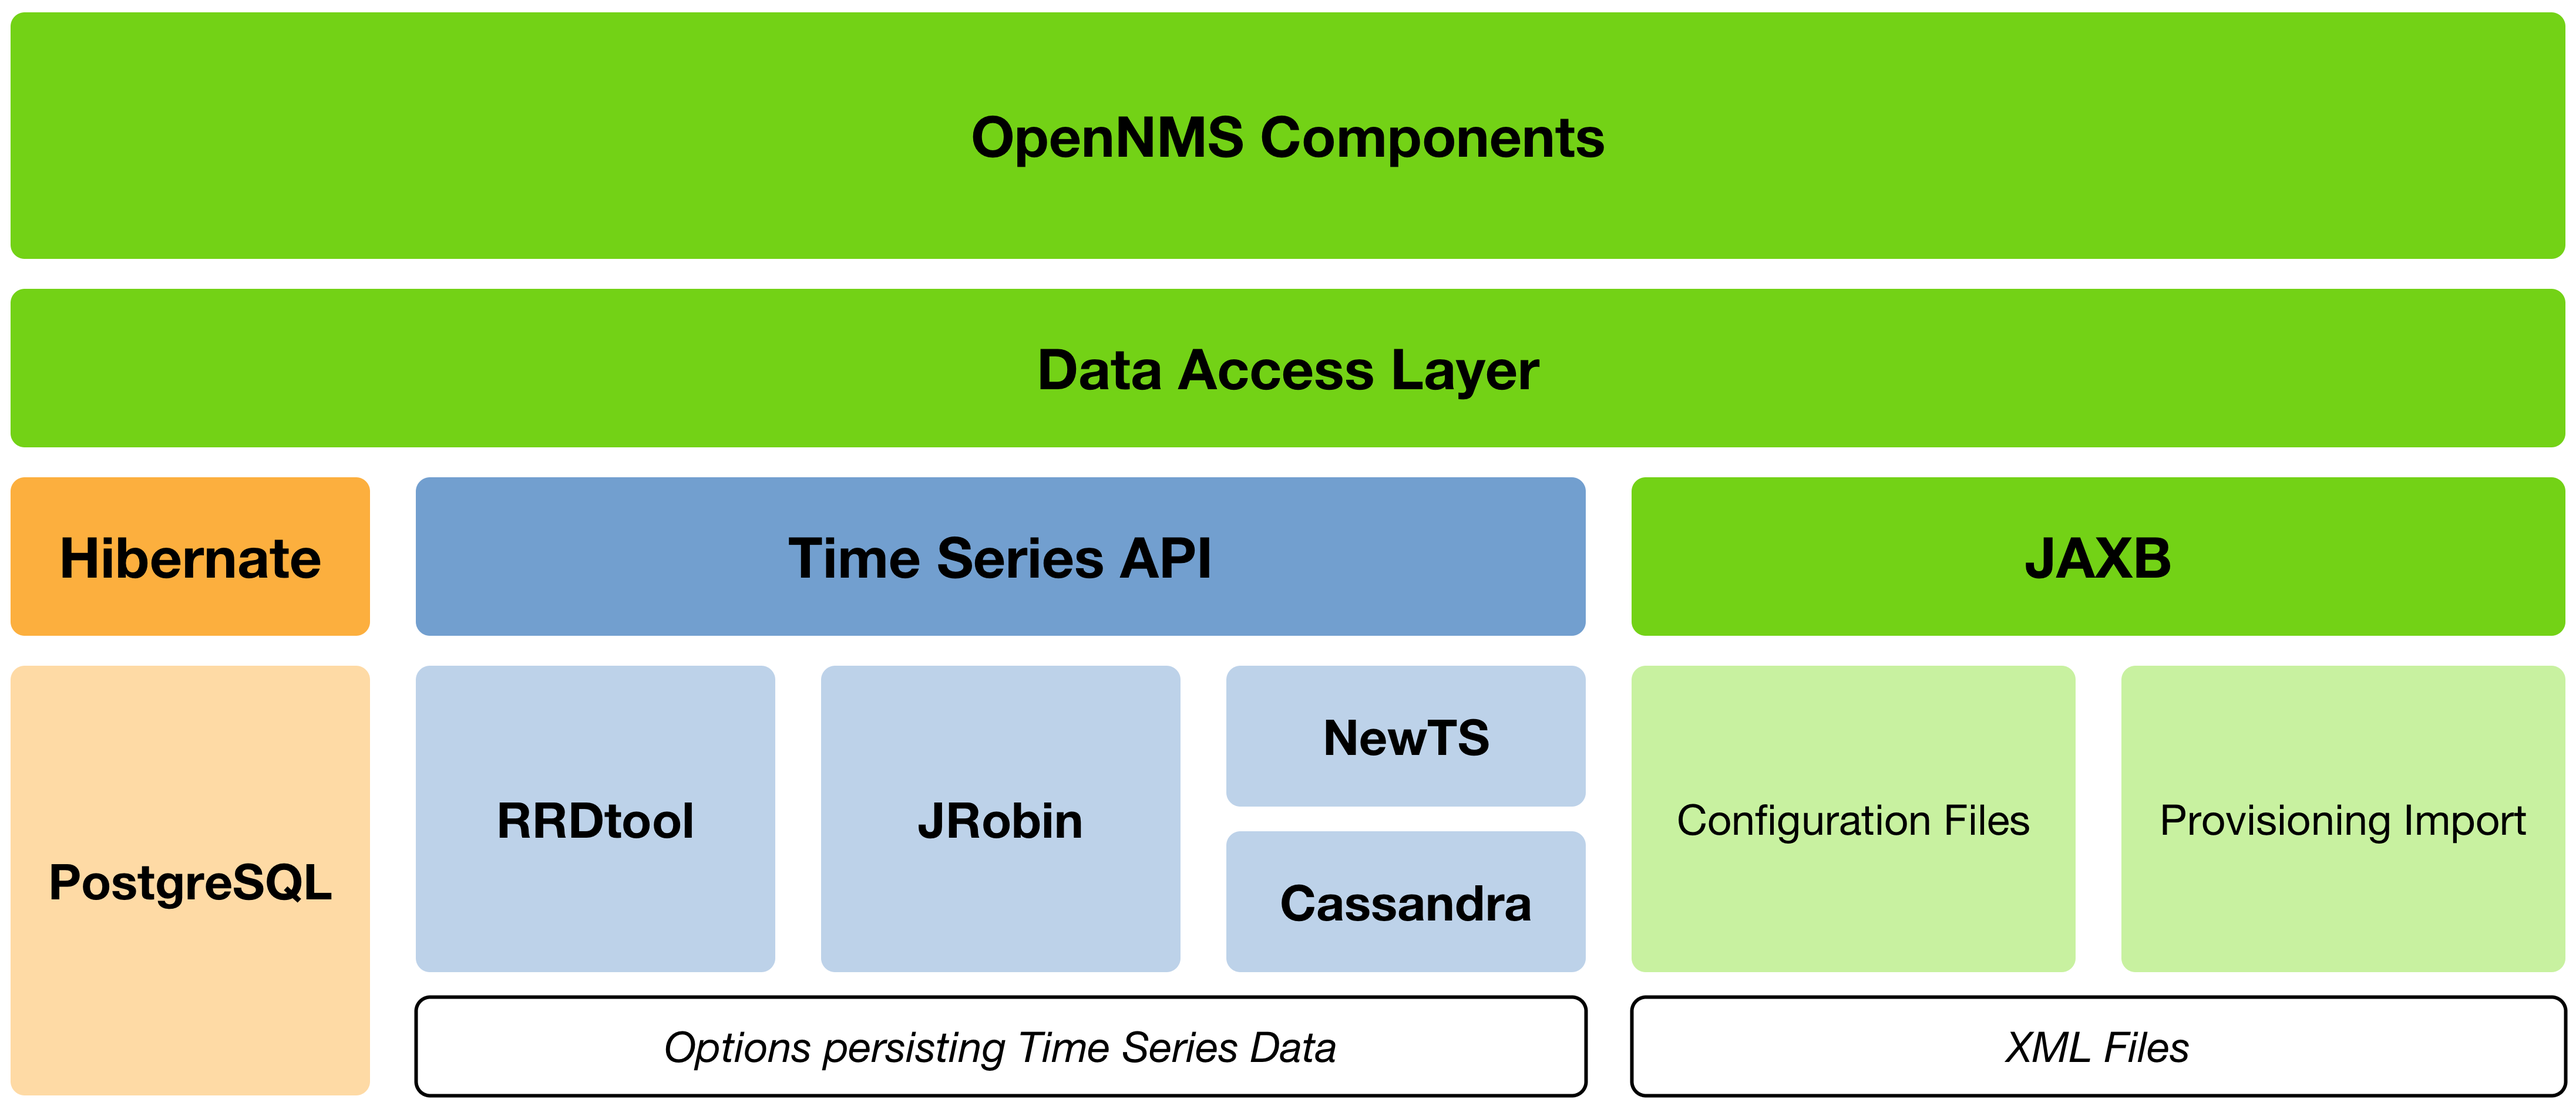
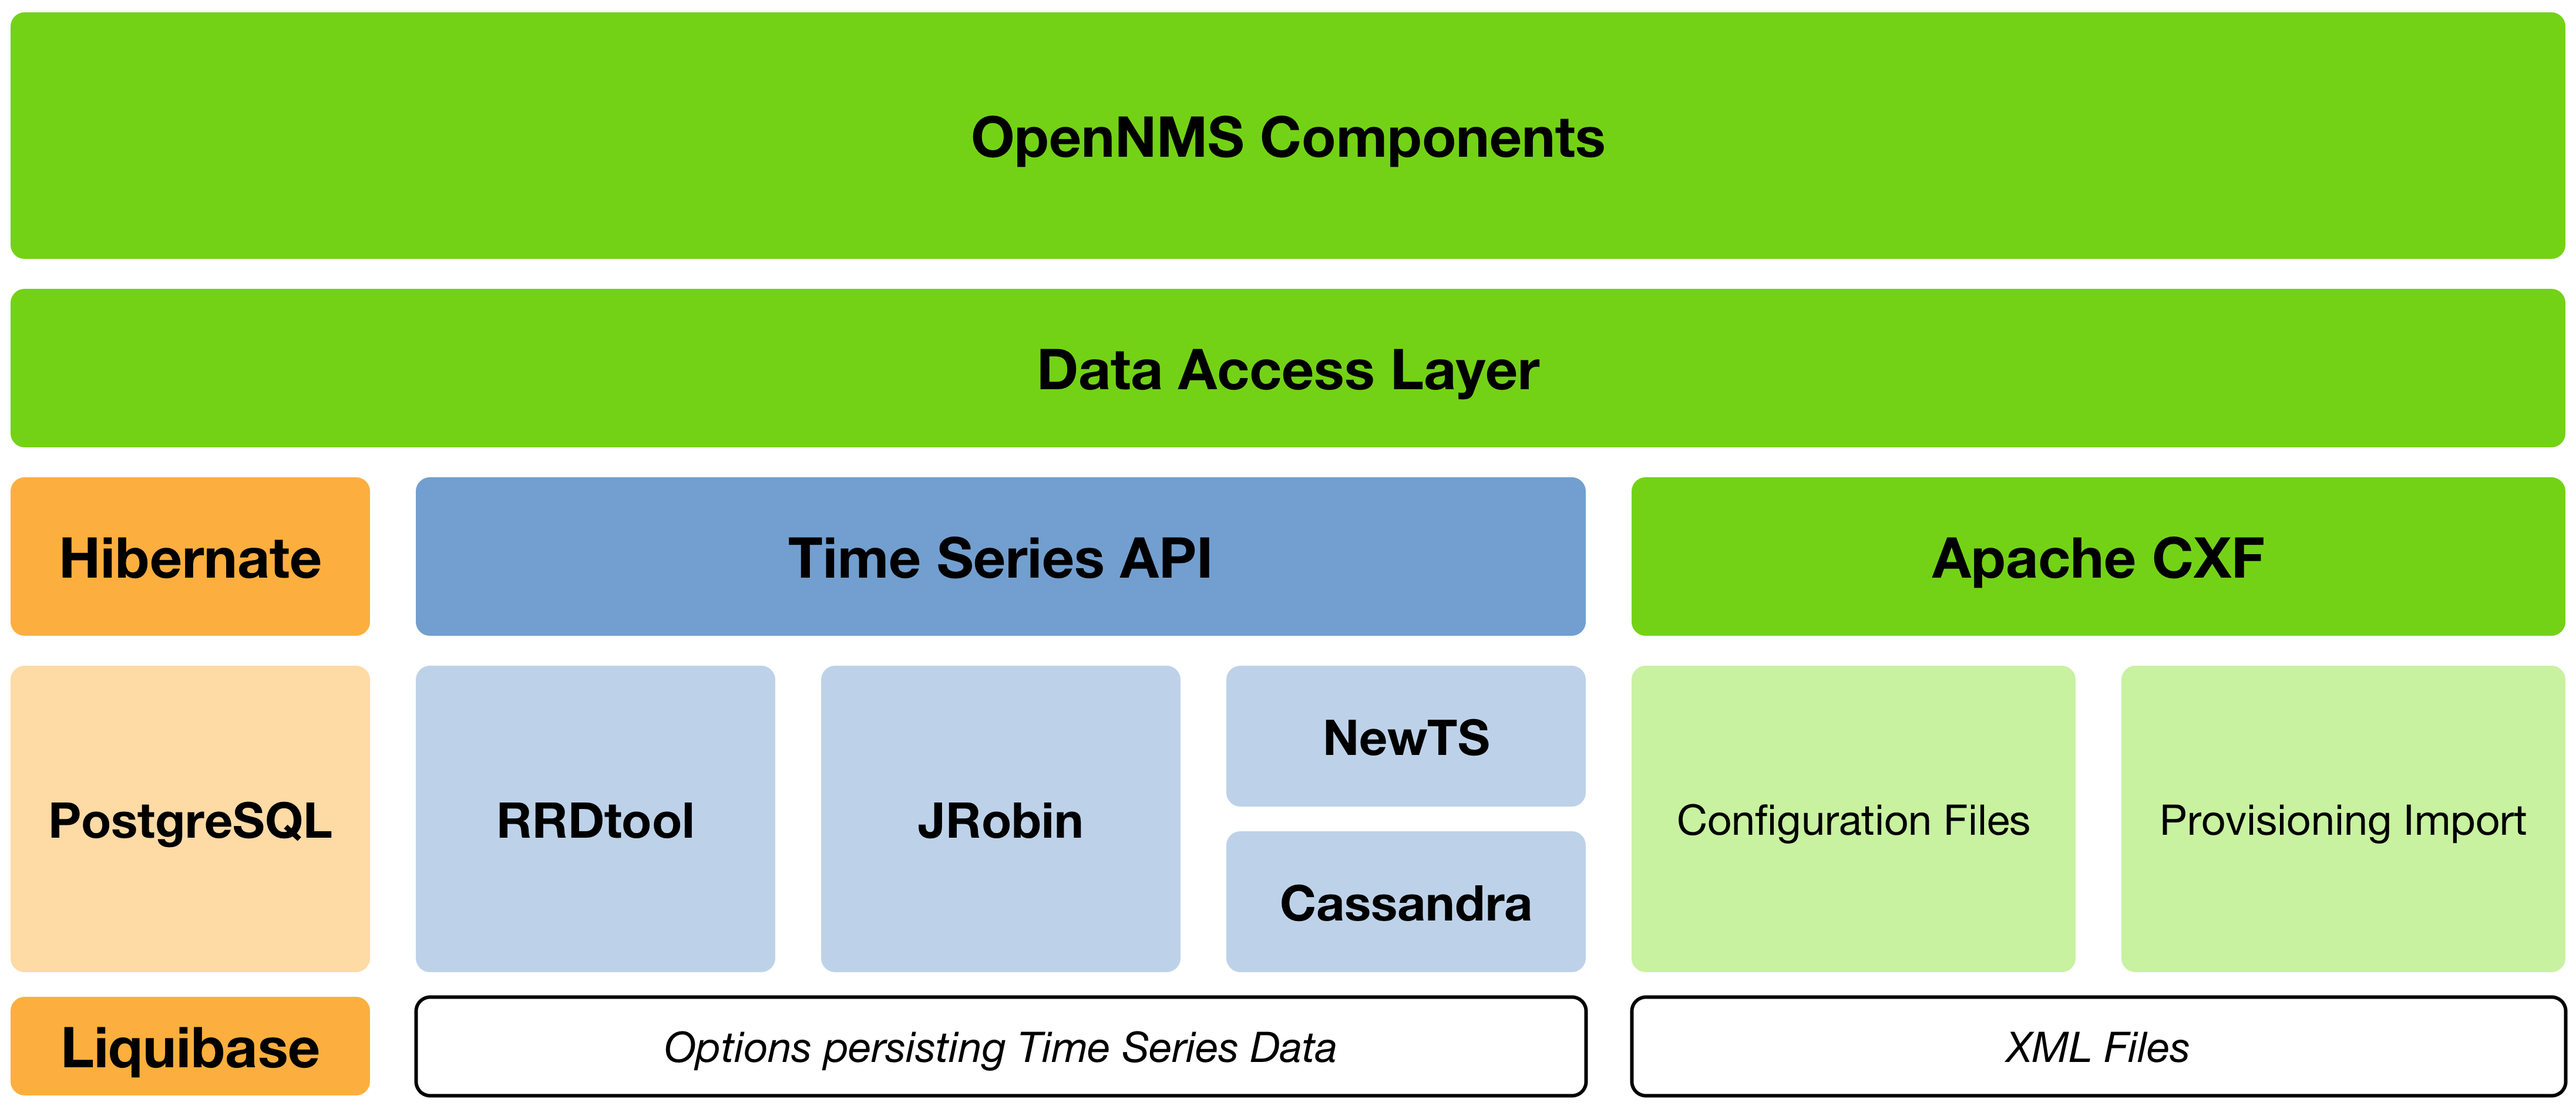
Work on use the platform section

Changed region(s): [[0.0, 0.862, 0.1562, 1.0], [0.0, 0.7081, 0.1249, 0.8312], [0.7497, 0.4618, 0.8746, 0.5234]]

diff --git a/user/pages/02.using-the-platform/_framework-overview/bottom.en.md b/user/pages/02.using-the-platform/_framework-overview/bottom.en.md
@@ -2,5 +2,21 @@
 title: Using the Platform
 ---
 
+## Framework Overview
+
+The open source friendly and rich Java ecosystem allows to build a powerful monitoring application stack.
+OpenNMS persists monitoring and node inventory information with [PostgreSQL](http://postgres.org).
+
 ![plattform-overview](/images/overview-api-architecture.png)
 
+## Java-based Framework
+
+The open source friendly and rich Java ecosystem allows to build a powerful monitoring application stack.
+OpenNMS persists monitoring and node inventory information with PostgreSQL.
+The database schema is version controlled with Liquibase which allows easier updates and maintenance.
+OpenNMS uses Hibernate as data persistence for PostgreSQL.
+With OpenNMS you have a choice between different Time Series Data Bases.
+
+* **[RRDtool](http://oss.oetiker.ch/rrdtool/)**: for maximal compatibility and small and medium sized performance data collections
+* **[JRobin](http://www.opennms.org/wiki/JRobin)**: Java based RRD storage for maximum platform independence and small and medium sized performance data collections
+* **[NewTS](https://opennms.github.io/newts/)**: For maximal scalability and medium to large performance data collections

diff --git a/user/pages/02.using-the-platform/_intro/bottom.en.md b/user/pages/02.using-the-platform/_intro/bottom.en.md
@@ -9,6 +9,3 @@ The OpenNMS community is helping to make interoperable network monitoring soluti
 An event-driven architecture allows flexibility workflow integration in existing monitoring and management stacks.
 OpenNMS normalizes device and vendor specific messages and protocol specific performance measurements.
 Based on open source technologies, the data are accessible through ReST API and can be used in high level management workflow application.
-
-![plattform-overview](/images/platform-plugin-overview.png)
-

diff --git a/user/pages/02.using-the-platform/_northbound/bottom.en.md b/user/pages/02.using-the-platform/_northbound/bottom.en.md
@@ -11,7 +11,7 @@ Extend the platform by using the native Java API or just run scripts on the unde
 * Jabber and XMPP as direct message or in XMPP chatrooms
 * Support for Microblog notifications via Identica / StatusNet / Twitter
 * Run external scripts
-* Extend the Java native notification statrategy API
+* Extend the Java native notification strategy API
 
 ## Ticketing Integration
 

diff --git a/user/pages/02.using-the-platform/_southbound/bottom.en.md b/user/pages/02.using-the-platform/_southbound/bottom.en.md
@@ -2,6 +2,8 @@
 title: Southbound Integration
 ---
 
+![plattform-overview](/images/platform-plugin-overview.png)
+
 ## Southbound Integration
 
 Gather performance measurements and log messages from network applications and devices supporting industry standard management protocols.
